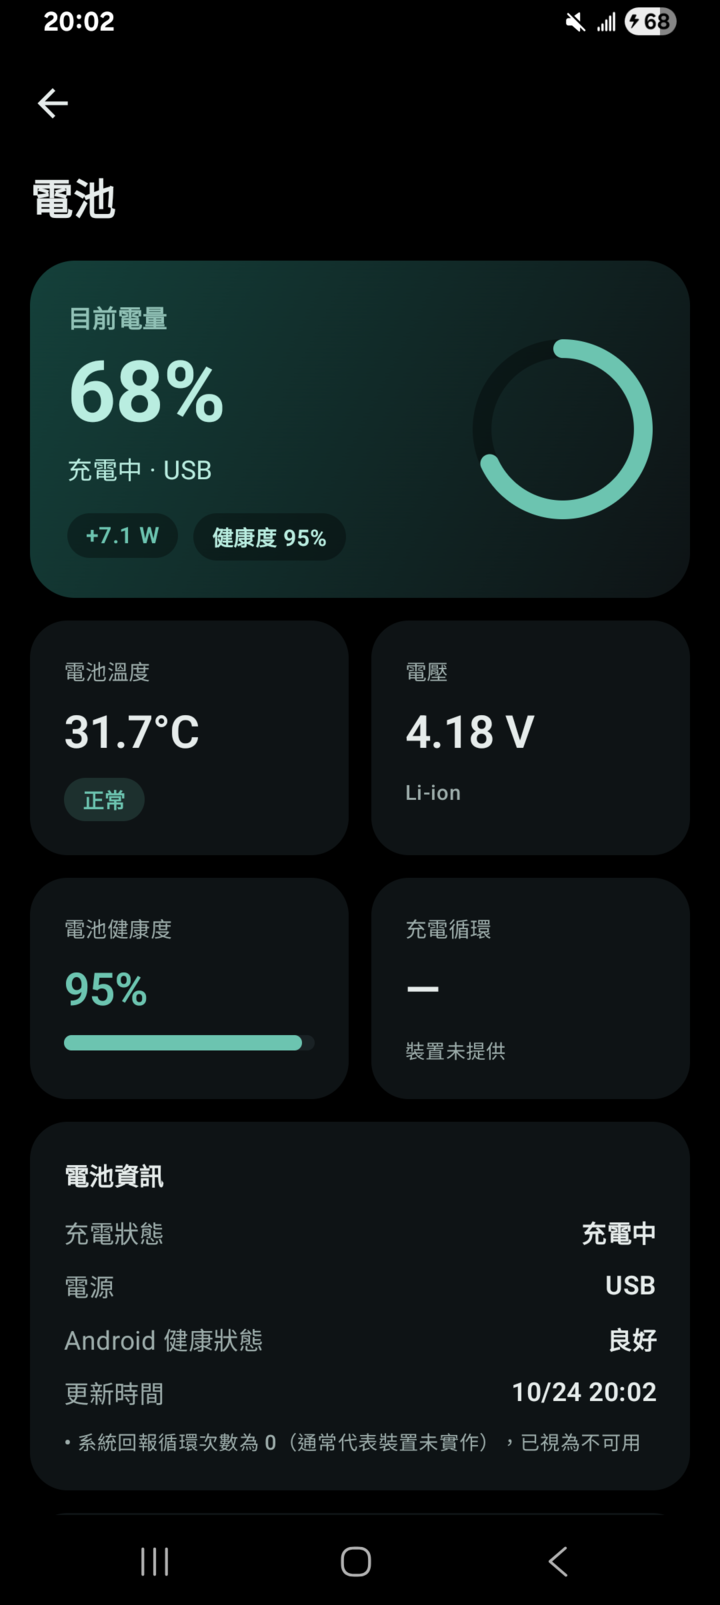
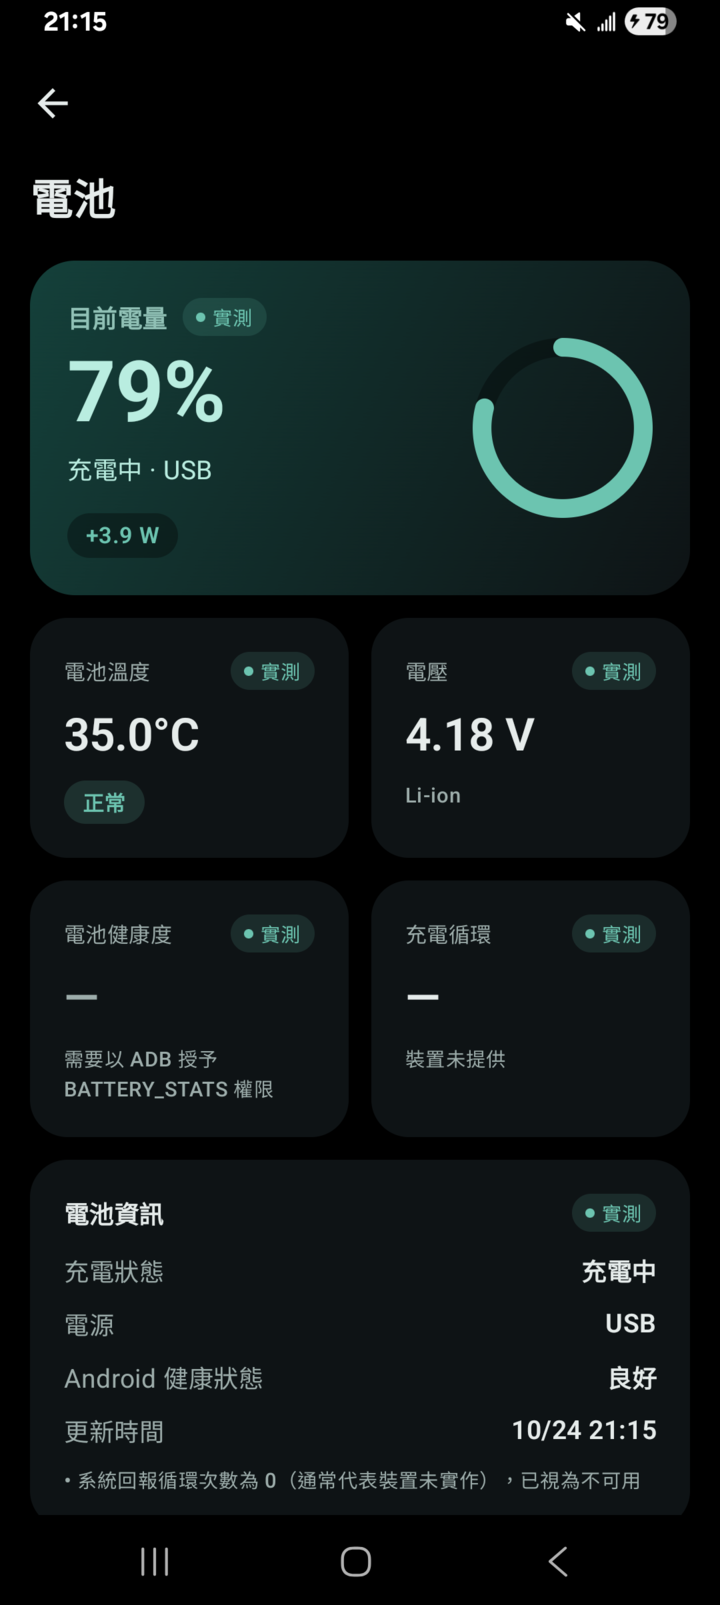
chore(release): 1.1.1
- Bump versionCode to 3 and versionName to 1.1.1.
- CHANGELOG entry; READMEs document source labels and point to the
  1.1.1 APK.
- Refresh dashboard, battery and device screenshots (Galaxy M14 5G).

diff --git a/README.en.md b/README.en.md
@@ -44,6 +44,7 @@ A native Android phone-health monitor written in Kotlin, with home-screen widget
 - Abnormal values reported by the system are rejected with an explanation, for example a temperature of exactly 0, a temperature outside −30 to 90 °C, or an implausible voltage.
 - Drain rates only use pairs of adjacent recorded samples that are both discharging (or both charging). Gaps longer than 3 hours, level increases while unplugged, and sudden jumps are excluded, and the actual time range of the data used is displayed.
 - Charts break the line at gaps in the data. Nothing is interpolated.
+- **Every value is labelled with its source**: "measured" values come straight from the system or a sensor; "calculated" values are derived from measured ones by formula (e.g. power = voltage × current); "estimated" values are approximations with known error (e.g. memory in use, per-app traffic); "system prediction" is Android's forecast (e.g. thermal headroom); "lookup" is a name from the app's built-in table (e.g. the marketing model name).
 
 ### History and charts
 
@@ -76,7 +77,7 @@ Dark mode (system / dark / light), AMOLED black background, widget appearance an
 
 ## Screenshots
 
-> Version 1.1.0, captured on a **physical Galaxy M14 5G** (Android 15 / One UI 7) while charging. All values are real readings, not simulated. The UI language is Traditional Chinese.
+> Version 1.1.1, captured on a **physical Galaxy M14 5G** (Android 15 / One UI 7) while charging. All values are real readings, not simulated. The UI language is Traditional Chinese.
 
 | Dashboard | Battery | Battery temperature |
 |---|---|---|
@@ -121,7 +122,7 @@ minSdk is 31 because the widget target-cell attributes (`targetCellWidth` / `tar
 
 ### Getting the APK
 
-Download the latest APK (for example `GalaxySystemMonitor-v1.1.0-debug.apk`) from [GitHub Releases](https://github.com/q828626868-cell/GalaxySystemMonitor/releases), or build it yourself as described in [Building from Source](#building-from-source). See [CHANGELOG.md](CHANGELOG.md) for what changed in each version.
+Download the latest APK (for example `GalaxySystemMonitor-v1.1.1-debug.apk`) from [GitHub Releases](https://github.com/q828626868-cell/GalaxySystemMonitor/releases), or build it yourself as described in [Building from Source](#building-from-source). See [CHANGELOG.md](CHANGELOG.md) for what changed in each version.
 
 > The published APK is a **debug build** signed with Android's default debug key; no release signing is configured yet. Each Release page lists the APK's SHA-256 hash so you can verify the file.
 
@@ -141,7 +142,7 @@ ADB is not required to use the app; it is just a convenient way to install from 
 
 ```bash
 adb devices                                              # confirm the device is connected
-adb install -r GalaxySystemMonitor-v1.1.0-debug.apk      # file downloaded from Releases
+adb install -r GalaxySystemMonitor-v1.1.1-debug.apk      # file downloaded from Releases
 # or a locally built file: adb install -r app/build/outputs/apk/debug/app-debug.apk
 ```
 
@@ -224,7 +225,7 @@ app/src/main/java/com/galaxy/systemmonitor/
 | Unit tests | 49 | Battery value and health parsing, rejection of abnormal values, current unit conversion and power, drain-rate algorithm, app screen-time calculation, CPU cluster and frequency parsing, model / chipset name lookup, temperature levels, chart gap splitting, settings validation, formatting |
 | Instrumented tests | 7 | Real system API reads, Room null columns, capture / throttle / prune / clear flow, widget destination whitelist |
 
-All 49 unit tests pass for 1.1.0, and all 7 instrumented tests pass on a physical Galaxy M14 5G (Android 15).
+All 49 unit tests pass for 1.1.1, and all 7 instrumented tests pass on a physical Galaxy M14 5G (Android 15).
 
 ## Limitations and Not Yet Implemented
 

diff --git a/README.md b/README.md
@@ -44,6 +44,7 @@
 - 系統回報的異常數值會被拒絕並說明原因，例如溫度回報 0、超出 −30～90 °C，或電壓異常。
 - 耗電速度只使用相鄰且都在放電（或都在充電）的實際紀錄。間隔超過 3 小時、未接電源時電量上升，以及短時間異常跳動的區段都會排除，並顯示實際使用的資料時間範圍。
 - 圖表遇到資料缺口時會斷線，不會插值補點。
+- **每個數值都標明來源**：「實測」是系統或感測器直接回報；「計算」是由實測值依公式換算（如功率＝電壓 × 電流）；「估算」是有已知誤差的近似值（如記憶體使用量、App 流量）；「系統預測」是 Android 的預測（如熱負載）；「對照表」是 App 內建的名稱（如機型商品名）。
 
 ### 歷史紀錄與圖表
 
@@ -76,7 +77,7 @@
 
 ## 畫面截圖
 
-> 1.1.0 版，攝於 **Galaxy M14 5G 實機**（Android 15／One UI 7）充電中的狀態，數值皆為真實讀數，未經模擬。
+> 1.1.1 版，攝於 **Galaxy M14 5G 實機**（Android 15／One UI 7）充電中的狀態，數值皆為真實讀數，未經模擬。
 
 | 儀表板 | 電池 | 電池溫度 |
 |---|---|---|
@@ -121,7 +122,7 @@ minSdk 設為 31，原因是 Widget 目標格數設定（`targetCellWidth`／`ta
 
 ### 取得 APK
 
-到 [GitHub Releases](https://github.com/q828626868-cell/GalaxySystemMonitor/releases) 下載最新版本的 APK（例如 `GalaxySystemMonitor-v1.1.0-debug.apk`）。各版本變更請見 [CHANGELOG.md](CHANGELOG.md)。也可以依照[從原始碼建置](#從原始碼建置)自行產生。
+到 [GitHub Releases](https://github.com/q828626868-cell/GalaxySystemMonitor/releases) 下載最新版本的 APK（例如 `GalaxySystemMonitor-v1.1.1-debug.apk`）。各版本變更請見 [CHANGELOG.md](CHANGELOG.md)。也可以依照[從原始碼建置](#從原始碼建置)自行產生。
 
 > 目前發布的是以 Android 預設偵錯金鑰簽署的 **Debug 版本**，尚未設定正式的 Release 簽署。每個 Release 頁面都附有 APK 的 SHA-256 雜湊值，可用來確認檔案完整性。
 
@@ -141,7 +142,7 @@ ADB 不是使用本 App 的必要條件，只是從電腦安裝時較方便。
 
 ```bash
 adb devices                                              # 確認裝置已連線
-adb install -r GalaxySystemMonitor-v1.1.0-debug.apk      # 從 Releases 下載的檔案
+adb install -r GalaxySystemMonitor-v1.1.1-debug.apk      # 從 Releases 下載的檔案
 # 或自行建置的檔案：adb install -r app/build/outputs/apk/debug/app-debug.apk
 ```
 
@@ -224,7 +225,7 @@ app/src/main/java/com/galaxy/systemmonitor/
 | 單元測試 | 49 | 電池數值與健康度解析、異常值拒絕、電流單位換算與功率、耗電速度演算法、App 使用時間計算、CPU 叢集與頻率解析、機型／晶片名稱對照、溫度分級、圖表斷點、設定驗證、格式化 |
 | 儀器測試 | 7 | 實際讀取系統 API、Room 空值欄位、取樣／節流／清理／清除流程、Widget 頁面白名單 |
 
-1.1.0 的 49 個單元測試全部通過；7 個儀器測試已在 Galaxy M14 5G 實機（Android 15）上全部通過。
+1.1.1 的 49 個單元測試全部通過；7 個儀器測試已在 Galaxy M14 5G 實機（Android 15）上全部通過。
 
 ## 目前限制與尚未實作的功能
 

diff --git a/CHANGELOG.md b/CHANGELOG.md
@@ -2,6 +2,22 @@
 
 格式參考 [Keep a Changelog](https://keepachangelog.com/zh-TW/1.1.0/)，版本號遵循 [語意化版本](https://semver.org/lang/zh-TW/)。
 
+## [1.1.1] - 2026-10-24
+
+### 新增
+
+- **數值來源標示**：每個數值都標明來源，分為「實測」、「計算」、「估算」、「系統預測」、「對照表」五種，以顏色區分；儀表板底部附圖例。整張卡同一來源時標在標題旁，混合來源時以小圓點標在各數值下方。
+
+### 變更
+
+- **儀表板改版**：移除大標題，改為一行「最後更新」與重新整理按鈕；CPU 即時頻率（每核心直條圖與散熱狀態）移到最上方；大電量卡改為精簡的電池卡（功率、溫度、健康度與 1／6／24 小時耗電速度）；新增「散熱」方塊（系統預測的熱負載）。
+- 電池健康度無值時註明原因（「未授權」或「未提供」）。
+- 裝置資訊頁分開標示商品名稱（對照表）與型號代碼（實測）。
+
+### 修正
+
+- 沒有標題列的畫面無法捲動的問題。
+
 ## [1.1.0] - 2026-10-24
 
 ### 新增
@@ -34,5 +50,6 @@
 
 - 首次發布：電池、耗電／充電速度、電池溫度、系統記憶體、儲存空間、網路監控，本機歷史紀錄與圖表，小型與大型桌面 Widget。
 
+[1.1.1]: https://github.com/q828626868-cell/GalaxySystemMonitor/compare/v1.1.0...v1.1.1
 [1.1.0]: https://github.com/q828626868-cell/GalaxySystemMonitor/compare/v1.0.0...v1.1.0
 [1.0.0]: https://github.com/q828626868-cell/GalaxySystemMonitor/releases/tag/v1.0.0
